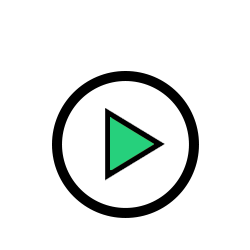
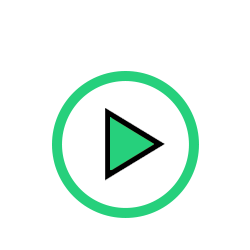
Docs dark mode v1.0 (#4510)
* change config

* remove component to unhide toggle

* default light

* Initial edits for home and basic styles

* Home page edits and feature styles

* Hover effect

* Tab styling

* Card colour home page

* A hrefs, cards, badges

* Fix badge colour

* Logo and home image

* Adjust images for dark mode

* TOC menu link colour

* Dark bg and hero image

* Search box outline

* Footer link

* Add dracula prism code theme and adjust for accessibility

* Fix openapi tab scrollbar in Firefox

* Review edits

* Docsearch styling

* Review edits RGB to Hex

---------

Changed region(s): [[0.196, 0.28, 0.812, 0.896]]

diff --git a/src/css/custom.css b/src/css/custom.css
@@ -24,8 +24,291 @@ See: https://docusaurus.io/docs/styling-layout#styling-your-site-with-infima
     Segoe UI, roboto, oxygen-sans, ubuntu, cantarell, Helvetica Neue, sans-serif;
 }
 
+/* Dark mode */
+[data-theme="dark"]:root {
+  --ifm-color-primary: #78a9ff;
+  --ifm-background-color: #161616;
+  --ifm-background-surface-color: #161616;
+  --ifm-font-color-base: #f4f4f4;
+  --ifm-heading-color: #f4f4f4;
+  --ifm-footer-background-color: #161616;
+  --ifm-footer-color: #161616;
+  --ifm-footer-link-color: var(--ifm-color-secondary);
+  --ifm-footer-title-color: var(--ifm-color-white);
+  --ifm-navbar-link-color: #c6c6c6;
+  --ifm-menu-color: #c6c6c6;
+  --ifm-color-secondary-contrast-background: #323232;
+  --ifm-color-secondary-dark: #646464;
+  --ifm-table-border-color: #3c3c3c;
+  --ifm-toc-border-color: #323232;
+  --ifm-tabs-padding-vertical: 10px;
+  --ifm-tabs-padding-horizontal: 15px;
+}
+
+a {
+  text-decoration: none;
+}
+
+/* Dark Mode > Kapa AI */
+
+[data-theme="dark"] .mantine-k0race {
+  border: 1px solid #767676;
+  box-shadow: 0px 8px 16px 4px rgba(120, 169, 255, 0.2);
+}
+
+/* Dark Mode > Search */
+
+[data-theme="dark"] .DocSearch-Modal {
+  background: #161616;
+}
+[data-theme="dark"] .DocSearch-Footer {
+  background: #161616;
+}
+[data-theme="dark"] .DocSearch-Hit a {
+  text-decoration: none;
+}
+
+/* Dark Mode > General */
+
+[data-theme="dark"] .navbar {
+  border-bottom: 1px solid #323232;
+}
+
+[data-theme="dark"] .token .tag {
+  color: red !important;
+}
+
+[data-theme="dark"] .DocSearch-Button {
+  border: 1px solid #48484a;
+}
+
+[data-theme="dark"] .hero__subtitle {
+  color: #f4f4f4;
+}
+[data-theme="dark"] .footer--dark {
+  background-color: #161616;
+  border-top: 1px solid #323232;
+  padding-top: 40px;
+}
+[data-theme="dark"] h2 {
+  border-bottom: 1px solid #48484a;
+}
+[data-theme="dark"] .hero__title {
+  border-bottom: none;
+}
+[data-theme="dark"] .hero--primary {
+  background-image: url("/static/img/hero-bg-dark.png");
+  padding-bottom: 2rem;
+  background-color: #161616;
+}
+[data-theme="dark"] .theme-doc-markdown img {
+  background-color: white;
+  padding: 0;
+  border: 0;
+}
+[data-theme="dark"] .callout {
+  background-color: #135cda;
+  color: white;
+}
+[data-theme="dark"] code {
+  background-color: #2c3342;
+}
+[data-theme="dark"] .hero--secondary {
+  background-color: #161616;
+  margin-bottom: 2rem;
+}
+[data-theme="dark"] .tabs__item {
+  color: #c6c6c6;
+  border: 3px solid var(--ifm-color-emphasis-200);
+  background-color: transparent;
+  margin-right: 10px;
+}
+[data-theme="dark"] .tabs__item--active {
+  border-radius: var(--ifm-global-radius);
+  border: 3px solid #78a9ff;
+  background-color: transparent;
+}
+[data-theme="dark"] .tabs__item:hover {
+  background-color: var(--ifm-color-emphasis-200);
+  color: #c6c6c6;
+}
+
+[data-theme="dark"] .tabs {
+  border-bottom: 0;
+}
+[data-theme="dark"] .get-started-use-case {
+  background-color: #14d890;
+  color: #000 !important;
+}
+[data-theme="dark"] .get-started-use-case:hover {
+  background-color: transparent;
+  border-color: #14d890;
+  color: #14d890 !important;
+}
+[data-theme="dark"] .get-started-use-case-2 {
+  background-color: transparent;
+  border-color: #14d890;
+  color: #14d890 !important;
+}
+[data-theme="dark"] .get-started-use-case-2:hover {
+  background-color: #14d890;
+  color: #000 !important;
+}
+
+/* Dark Mode > Link underlines for AA accessibility */
+
+[data-theme="dark"] p a {
+  text-decoration: underline;
+  text-decoration-color: #78a9ff6b;
+}
+[data-theme="dark"] li a {
+  text-decoration: underline;
+  text-decoration-color: #78a9ff6b;
+}
+[data-theme="dark"] li a.osano-footer-link-docu {
+  text-decoration: none;
+}
+[data-theme="dark"] td a {
+  text-decoration: underline;
+  text-decoration-color: #78a9ff6b;
+}
+[data-theme="dark"] p a:hover {
+  text-decoration: underline;
+  text-decoration-color: #78a9ff;
+}
+[data-theme="dark"] li a:hover {
+  text-decoration: underline;
+  text-decoration-color: #78a9ff;
+}
+[data-theme="dark"] td a:hover {
+  text-decoration: underline;
+  text-decoration-color: #78a9ff;
+}
+[data-theme="dark"] .alert a {
+  text-decoration: underline;
+  text-decoration-color: #e1e1e16b;
+}
+[data-theme="dark"] .alert a:hover {
+  text-decoration: underline;
+  text-decoration-color: white;
+}
+[data-theme="dark"] .menu__link {
+  text-decoration: none;
+}
+[data-theme="dark"] .menu__link:hover {
+  text-decoration: none;
+}
+[data-theme="dark"] .table-of-contents__link {
+  text-decoration: none;
+  color: #c6c6c6;
+}
+[data-theme="dark"] .table-of-contents__link:hover {
+  text-decoration: none;
+  color: #f4f4f4;
+}
+[data-theme="dark"] .footer__link-item {
+  text-decoration: none;
+}
+[data-theme="dark"] li a.dropdown__link {
+  text-decoration: none;
+}
+[data-theme="dark"]
+  .openapi-tabs__schema-list-container
+  .openapi-tabs__schema-item {
+  border: 3px solid var(--ifm-toc-border-color);
+}
+[data-theme="dark"]
+  .openapi-tabs__code-container-inner
+  .openapi-tabs__code-item.active {
+  border: 3px solid var(--ifm-color-primary);
+}
+[data-theme="dark"] .openapi-tabs__response-code-item:hover:not(.active) {
+  border: 3px solid var(--ifm-toc-border-color);
+}
+
+/* Dark Mode > Cards */
+
+[data-theme="dark"] .card {
+  background-color: #1b1b1b;
+  border: 1px solid #282828;
+  box-shadow: 0px 8px 16px 4px #00000033;
+}
+[data-theme="dark"] .card:hover {
+  background-color: transparent;
+  border: 1px solid var(--ifm-color-primary);
+  box-shadow: 0px 8px 16px 4px #78a9ff33;
+}
+
+/* Dark mode > Badges */
+
+[data-theme="dark"] .badge--beginner {
+  background-color: #9a4e00;
+  color: #e1d9cd;
+  border: 1px solid #9d7800;
+}
+[data-theme="dark"] .badge--intermediate {
+  background-color: #9a4e00;
+  color: #e1d9cd;
+  border: 1px solid #9d7800;
+}
+[data-theme="dark"] .badge--advanced {
+  background-color: #9a4e00;
+  color: #e1d9cd;
+  border: 1px solid #9d7800;
+}
+[data-theme="dark"] .badge--platform {
+  background-color: #9a4e00;
+  color: #e1d9cd;
+  border: 1px solid #9d7800;
+}
+[data-theme="dark"] .badge--medium {
+  background-color: #005d5d;
+  color: #bae6ff;
+  border: 1px solid #009d9a;
+}
+[data-theme="dark"] .badge--short {
+  background-color: #005d5d;
+  color: #bae6ff;
+  border: 1px solid #009d9a;
+}
+[data-theme="dark"] .badge--beta {
+  background-color: #005d5d;
+  color: #bae6ff;
+  border: 1px solid #009d9a;
+}
+[data-theme="dark"] .badge--alpha {
+  background-color: #005d5d;
+  color: #bae6ff;
+  border: 1px solid #009d9a;
+}
+[data-theme="dark"] .badge--enterprise-only {
+  background-color: #005d5d;
+  color: #bae6ff;
+  border: 1px solid #009d9a;
+}
+[data-theme="dark"] .badge--cloud {
+  background-color: #005d5d;
+  color: #bae6ff;
+  border: 1px solid #009d9a;
+}
+[data-theme="dark"] .badge--medium {
+  background-color: #00539a;
+  color: #bae6ff;
+  border: 1px solid #1192e8;
+}
+[data-theme="dark"] .badge--long {
+  background-color: #00539a;
+  color: #bae6ff;
+  border: 1px solid #1192e8;
+}
+
+/* End Dark mode */
+
+.pagination-nav {
+  margin-bottom: 2rem;
+}
 .docusaurus-highlight-code-line {
-  background-color: rgb(72, 77, 91);
+  background-color: #484d5b;
   display: block;
   margin: 0 calc(-1 * var(--ifm-pre-padding));
   padding: 0 var(--ifm-pre-padding);
@@ -524,6 +807,11 @@ h2#request {
 }
 .openapi-tabs__mime-container {
   padding-top: 0;
+}
+ul.openapi-tabs__mime-list-container,
+ul.openapi-tabs__schema-list-container,
+ul.openapi-tabs__response-list-container {
+  overflow-x: auto;
 }
 .openapi-tabs__response-list-container.tabs {
   border-bottom: 0;

diff --git a/src/pages/styles.module.css b/src/pages/styles.module.css
@@ -4,7 +4,6 @@
  * CSS files with the .module.css suffix will be treated as CSS modules
  * and scoped locally.
  */
-
 .heroBanner {
   padding: 3.5rem 0;
   text-align: center;
@@ -45,6 +44,18 @@
   width: 100%;
 }
 
+.featuresBlock {
+  padding: 2rem 0;
+}
+
+[data-theme="dark"] .featuresBlock {
+  padding: 1rem 0 2rem 0;
+}
+
+[data-theme="dark"] .featuresDescription {
+  color: rgb(198, 198, 198);
+}
+
 .featuresGrid {
   display: grid;
   grid-template-columns: repeat(auto-fit, minmax(360px, 1fr));
@@ -54,6 +65,16 @@
 
 .featuresSection {
   padding: 0;
+}
+[data-theme="dark"] .featuresSection {
+  background-color: rgb(27, 27, 27);
+  border: 1px solid rgb(40, 40, 40);
+  box-shadow: 0px 8px 16px 4px rgba(0, 0, 0, 0.2);
+}
+[data-theme="dark"] .featuresSection:hover {
+  background-color: transparent;
+  border: 1px solid var(--ifm-color-primary);
+  box-shadow: 0px 8px 16px 4px rgba(120, 169, 255, 0.2);
 }
 
 .featuresImage {

diff --git a/docusaurus.config.js b/docusaurus.config.js
@@ -153,6 +153,9 @@ module.exports = {
     },
   ],
   themeConfig: {
+    colorMode: {
+      defaultMode: "light",
+    },
     docs: {
       sidebar: {
         autoCollapseCategories: true,
@@ -169,12 +172,15 @@ module.exports = {
 
     prism: {
       additionalLanguages: ["java", "protobuf", "csharp"],
+      theme: require("prism-react-renderer/themes/palenight"),
+      darkTheme: require("prism-react-renderer/themes/dracula"),
     },
     navbar: {
       title: "Camunda 8 Docs",
       logo: {
         alt: "Camunda 8 Docs",
         src: "img/black-C.png",
+        srcDark: "img/light-C.png",
       },
       items: [
         {

diff --git a/src/pages/index.js b/src/pages/index.js
@@ -124,7 +124,7 @@ function Home() {
       </header>
       <main>
         {features && features.length > 0 && (
-          <section className={styles.features}>
+          <section className={(styles.features, styles.featuresBlock)}>
             <div className="container">
               <div className={styles.featuresGrid}>
                 {features.map((props, idx) => (
